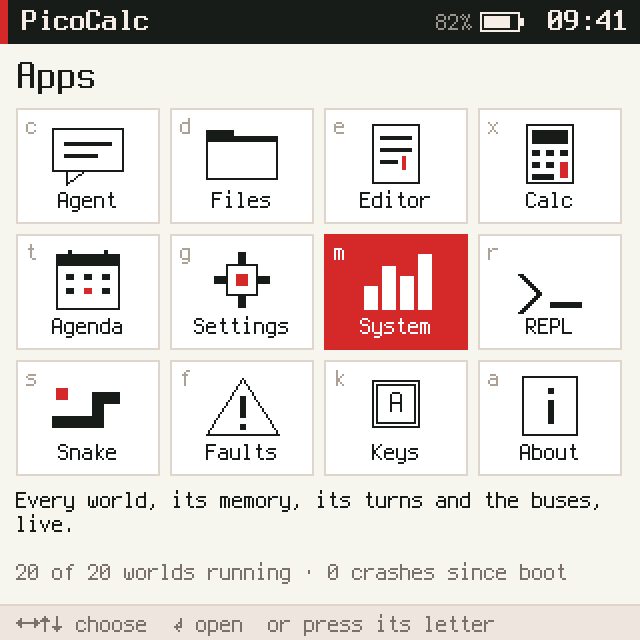
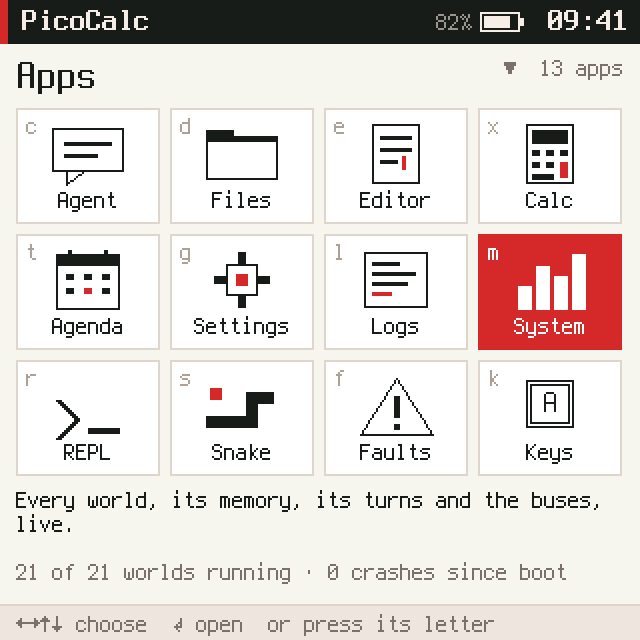
picocalc-os: a Logs app, and a launcher that scrolls by rows past twelve apps (PICOCALC-SYS S5)
Logs (claim sys.log, launcher key l) reads the kernel's log ring while it is in front, a page at a time, and
marks where the ring overwrote lines it had not read ("… 44 lines are gone"). Lines carry the wall time, or the
seconds since boot before the clock was set; crashes, failures and ESP-IDF warnings and errors are drawn in the
accent colour. F2 filters: all, problems, kernel, ESP-IDF. Scrolling back holds the view still while new lines
arrive; End follows again. The launcher shows three rows of four and scrolls by rows, with arrows and the app
count beside the title; a letter still opens any app. Tests in tests/sysapps.test.mjs; captures 90 to 93.

diff --git a/picocalc-os/js/apps/logs.js b/picocalc-os/js/apps/logs.js
@@ -1,0 +1,75 @@
+// Logs: the kernel's log ring (sys.log, claim sys.log): crashes, what worlds print, and on the device ESP-IDF's own
+// lines (Wi-Fi, files). It reads what is new while it is in front; meanwhile the ring keeps the last 256 lines, and
+// a gap in the line numbers shows as "… N lines are gone".
+const LG_KEEP = 400, LG_PAGE = 64, LG_STEP = 10;
+const LG_ESP = /^[IWEDV] \(\d+\) /;
+const LG_PROBLEM = /crash|fail|error|refus|denied|cannot|^E \(|^W \(/i;
+const LG_FILTERS = [
+  ["all", () => true],
+  ["problems", (l) => l.lost || LG_PROBLEM.test(l.s)],
+  ["kernel", (l) => l.lost || !LG_ESP.test(l.s)],
+  ["ESP-IDF", (l) => l.lost || LG_ESP.test(l.s)],
+];
+const lgPad = (n) => String(n).padStart(2, "0");
+
+// Everything after the last line read, a page at a time, with a marker where the ring has overwritten lines.
+function lgRead(s) {
+  for (let page = 0; page < 8; page++) {
+    let r;
+    try { r = sys.log(s.after); s.error = ""; } catch (e) { s.error = e.message; return; }
+    if (page === 0 && r.first > s.after + 1) s.lines.push({ n: r.first - 0.5, lost: r.first - s.after - 1 });
+    for (const l of r.lines) s.lines.push(l);
+    if (r.lines.length) s.after = r.lines[r.lines.length - 1].n;
+    if (r.lines.length < LG_PAGE) break;
+  }
+  if (s.lines.length > LG_KEEP) s.lines.splice(0, s.lines.length - LG_KEEP);
+}
+
+function lgStamp(l) {
+  if (l.wall >= 0) { const d = new Date(l.wall); return lgPad(d.getHours()) + ":" + lgPad(d.getMinutes()) + ":" + lgPad(d.getSeconds()); }
+  return (l.t / 1000).toFixed(1) + "s";
+}
+
+// What is shown: the filter's lines, up to the last one there was when scrolling back began (so the view holds still).
+function lgShown(s) {
+  const keep = LG_FILTERS[s.filter][1];
+  return s.lines.filter((l) => keep(l) && (s.scroll === 0 || l.n <= s.frozenAt));
+}
+
+function lgKey(s, k) {
+  if (!k || k.state === "up") return;
+  const back = (by) => {
+    if (s.scroll === 0) s.frozenAt = s.after;
+    s.scroll = Math.max(0, Math.min(s.scroll + by, 3 * s.lines.length));
+  };
+  switch (k.key) {
+    case "up": return back(1);
+    case "down": return back(-1);
+    case "pgup": return back(LG_STEP);
+    case "pgdn": return back(-LG_STEP);
+    case "home": return back(1e6);
+    case "end": case "f3": s.scroll = 0; return;
+    case "f2": if (k.state === "down") { s.filter = (s.filter + 1) % LG_FILTERS.length; s.scroll = 0; } return;
+  }
+}
+
+function lgScreen(s) {
+  const items = lgShown(s).map((l) => l.lost
+    ? { s: `… ${l.lost} line${l.lost === 1 ? " is" : "s are"} gone`, color: "blue" }
+    : { s: lgStamp(l) + " " + l.s, color: LG_PROBLEM.test(l.s) ? "accent" : LG_ESP.test(l.s) ? "muted" : "ink" });
+  const where = s.scroll ? "held, End follows" : "following";
+  return ui.col({ gap: 4 },
+    ui.lines(items.length ? items : [{ s: s.error ? "" : "Nothing logged yet.", color: "muted" }], { font: "s", bottom: true, scroll: s.scroll, grow: 1 }),
+    ui.text(s.error || `${LG_FILTERS[s.filter][0]} · ${s.lines.filter((l) => !l.lost).length} lines · ${where}`,
+            { font: "s", color: s.error ? "accent" : "muted" }));
+}
+
+app("logs")
+  .title("Logs")
+  .state({ lines: [], after: 0, filter: 0, scroll: 0, frozenAt: 0, focused: false, error: "" })
+  .on("focus", (s) => { s.focused = true; lgRead(s); })
+  .on("blur", (s) => { s.focused = false; })
+  .on("key", (s, k, msg) => { if (msg.from === "compositor") lgKey(s, k); })
+  .every(500, (s) => { if (s.focused) lgRead(s); })
+  .screen(lgScreen)
+  .hints("↑↓ scroll  End follow  F2 filter");

diff --git a/picocalc-os/js/apps/launcher.js b/picocalc-os/js/apps/launcher.js
@@ -15,6 +15,8 @@ const APPS = [
   { app: "settings", key: "g", label: "Settings", about: "Wi-Fi: its state, nearby networks, joining one. The time zone, and the agent's provider.",
     ops: [["rect", 12, 7, 16, 16], ["fill", 18, 1, 4, 6], ["fill", 18, 23, 4, 6], ["fill", 6, 13, 6, 4], ["fill", 28, 13, 6, 4],
           ["fill", 17, 12, 6, 6, "accent"]] },
+  { app: "logs", key: "l", label: "Logs", about: "What the kernel, the worlds and the network have logged, newest at the bottom.",
+    ops: [["rect", 4, 1, 32, 28], ["fill", 8, 6, 14, 2], ["fill", 8, 11, 22, 2], ["fill", 8, 16, 18, 2], ["fill", 8, 21, 10, 2, "accent"]] },
   { app: "sysmon", key: "m", label: "System", about: "Every world, its memory, its turns and the buses, live.",
     ops: [["fill", 4, 18, 7, 12], ["fill", 13, 8, 7, 22], ["fill", 22, 13, 7, 17], ["fill", 31, 2, 7, 28]] },
   { app: "repl", key: "r", label: "REPL", about: "JavaScript, evaluated in a sandbox world with its own heap and budget.",
@@ -28,11 +30,18 @@ const APPS = [
   { app: "about", key: "a", label: "About", about: "The device profile, the clock calibration and the kernel's counters.",
     ops: [["rect", 6, 0, 28, 30], ["fill", 19, 6, 3, 3], ["fill", 19, 12, 3, 12]] },
 ];
-const COLS = 4;   // four narrower cells keep ten to twelve apps in three rows
+const COLS = 4, ROWS = 3;   // three rows of four fit the screen; more apps scroll by rows
+
+// Keep the selected app's row among the visible ones.
+function reveal(s) {
+  const row = Math.floor(s.sel / COLS);
+  if (row < s.top) s.top = row;
+  else if (row >= s.top + ROWS) s.top = row - ROWS + 1;
+}
 
 app("launcher")
   .title("PicoCalc")
-  .state({ sel: 0, worlds: 0, running: 0, crashes: 0 })
+  .state({ sel: 0, top: 0, worlds: 0, running: 0, crashes: 0 })
   .onStart((s) => count(s))
   .on("focus", (s) => count(s))
   .on("key", (s, k) => {
@@ -46,13 +55,17 @@ app("launcher")
       const i = APPS.findIndex((a) => a.key === (k.ch || "").toLowerCase());
       if (i >= 0) { s.sel = i; send("compositor", "open", { app: APPS[i].app }); }
     }
+    reveal(s);
   })
   .every(2000, (s) => count(s))
   .screen((s) => {
-    const a = APPS[s.sel];
+    const a = APPS[s.sel], first = s.top * COLS, shown = APPS.slice(first, first + ROWS * COLS);
+    const more = (s.top > 0 ? "▲" : " ") + (first + shown.length < APPS.length ? "▼" : " ");
     return ui.col({ gap: 6 },
-      ui.text("Apps", { font: "l" }),
-      ui.grid(APPS.map((x) => ({ label: x.label, ops: x.ops, key: x.key })), s.sel, { cols: COLS, cell: 58, gap: 5 }),
+      ui.row({},
+        ui.text("Apps", { font: "l" }),
+        ui.text(more.trim() ? `${more}  ${APPS.length} apps` : "", { font: "s", color: "muted", align: "right" })),
+      ui.grid(shown.map((x) => ({ label: x.label, ops: x.ops, key: x.key })), s.sel - first, { cols: COLS, cell: 58, gap: 5 }),
       ui.text(a.about, { wrap: true, font: "s", color: "ink" }),
       ui.gap(0),
       ui.text(`${s.running} of ${s.worlds} worlds running · ${s.crashes} crashes since boot`, { font: "s", color: "muted" }),
